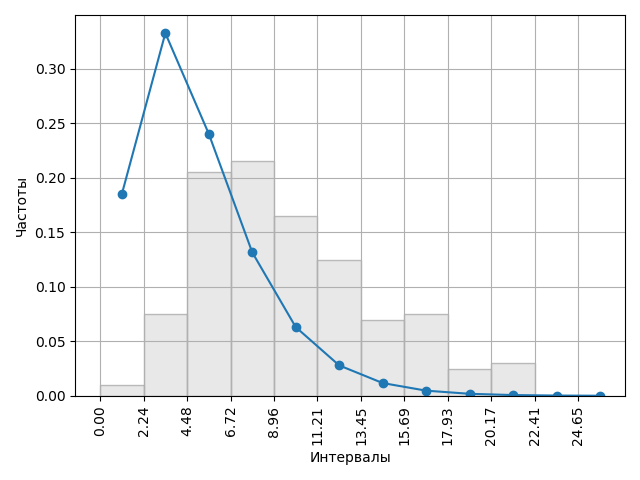
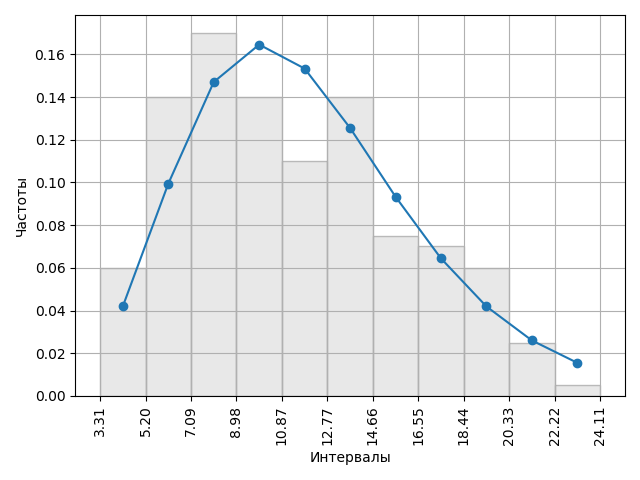
rgz - chi2 fixed

diff --git a/RGZ/algorithms.py b/RGZ/algorithms.py
@@ -17,7 +17,7 @@ def muller_method():
 
 # Распределение Хи-квадрат
 def chi2_distribution(k):
-    return sum(val**2 for sub in (muller_method() for _ in range(k)) for val in sub)
+    return sum(val**2 for sub in (muller_method() for _ in range(k // 2)) for val in sub)
 
 
 # Распределения Фишера
@@ -37,8 +37,8 @@ def make_sequence(n, distribution, *args):
 def get_intervals(sequence):
     k = int(5 * log10(len(sequence)))
     intervals_width = (max(sequence) - min(sequence)) / k
-    intervals = [x * intervals_width for x in range(0, k + 1)] 
-    return intervals
+    intervals = [x * intervals_width + min(sequence) for x in range(0, k + 1)] 
+    return intervals, intervals_width
 
 
 # Расчёт попаданий элементов последовательности в интервалы
@@ -53,14 +53,11 @@ def interval_hits(sequence, intervals):
 
 
 # Сформировать гистограмму теоретической и эмпирической функции плотности распределения
-def make_histogram(picturename, intervals, v, theor_distributuon, *args):
-    theor_intervals = []
-    theor_v = []
-    bar_width = intervals[-1] / (len(intervals) - 1)
-    for i in range(len(intervals)):
-        theor_intervals.append(i * bar_width + bar_width / 2)
-        theor_v.append(theor_distributuon((i + 1) * bar_width, *args) - theor_distributuon(i * bar_width, *args))
-    ff.draw_histogram(picturename, intervals, v, theor_intervals, theor_v, bar_width)
+def make_histogram(picturename, intervals, intervals_width, v, theor_distributuon, *args):
+    theor_intervals = [x + intervals_width / 2 for x in intervals]
+    theor_v = [theor_distributuon(x, *args) - theor_distributuon(y, *args) 
+               for x, y in zip(intervals[1:], intervals[:-1])]
+    ff.draw_histogram(picturename, intervals, v, theor_intervals, theor_v, intervals_width)
 
 
 # Сформировать график функции
@@ -70,7 +67,8 @@ def make_chart(picturename, title, theor_distributuon, *args):
 
 # Тест критерия Хи-квадрат
 def chi2_test(n, intervals, hits, alpha, theor_distributuon, *args):
-    intervals_p = [theor_distributuon(x, *args) - theor_distributuon(y, *args) for x, y in zip(intervals[1:], intervals[:-1])]
+    intervals_p = [theor_distributuon(x, *args) - theor_distributuon(y, *args) 
+                   for x, y in zip(intervals[1:], intervals[:-1])]
     S = n * sum((hit / n - p)**2 / p if p else 0 for hit, p in zip(hits, intervals_p))
     r = len(intervals) - 1
     integral_res = quad(lambda S: S**(r / 2 - 1) * exp(-S / 2), S, inf)[0]
@@ -80,7 +78,7 @@ def chi2_test(n, intervals, hits, alpha, theor_distributuon, *args):
 
 
 def I(mu, z):
-    return float(nsum(lambda i: (z / 2)**(mu + 2 * i) / (gamma(i + 1) * gamma(i + mu + 1)), [0, 5]))
+    return float(nsum(lambda i: (z / 2)**(mu + 2 * i) / (gamma(i + 1) * gamma(i + mu + 1)), [0, inf]))
 
 
 def a1(S):
@@ -88,7 +86,7 @@ def a1(S):
         z = (4 * i + 1)**2 / (16 * S)
         val1 = gamma(i + 0.5) * sqrt(4 * i + 1) / (gamma(0.5) * gamma(i + 1)) * exp(-z)
         val2 = I(-0.25, z) - I(0.25, z)
-        return val1 * (val2 - int(val2))
+        return val1 * val2
     ITER_MAX = 5
     result = float(nsum(sum_item, [0, ITER_MAX])) / sqrt(2 * S)
     return result 

diff --git a/RGZ/main.py b/RGZ/main.py
@@ -20,13 +20,13 @@ def main():
     #'''  
     empiric_distr = alg.chi2_distribution
     theor_distr = alg.chi2.cdf
-    k = 5
+    k = 12
     # Чтение данных тестов
     n, mu, nu, alpha, precision, histogram_run, chart_run = ff.read_tests_settings(TESTS_FILENAME)
     # Формирование последовательности
     sequence, modeling_time = alg.make_sequence(n, empiric_distr, k)
     # Формирование интервалов
-    intervals = alg.get_intervals(sequence)
+    intervals, intervals_width = alg.get_intervals(sequence)
     hits, v = alg.interval_hits(sequence, intervals)
     # Тест критерия Хи-квадрат
     chi2_r, chi2_S, chi2_PSS, chi2_passed = alg.chi2_test(n, intervals, hits, alpha, theor_distr, k)
@@ -38,7 +38,7 @@ def main():
     if chart_run:
         alg.make_chart(CHART, "Функция распределения Хи-квадрат", theor_distr, k)
     if histogram_run:
-        alg.make_histogram(HISTOGRAM, intervals, v, theor_distr, k)
+        alg.make_histogram(HISTOGRAM, intervals, intervals_width, v, theor_distr, k)
     '''
     empiric_distr = alg.fisher_distribution
     theor_distr = alg.f.cdf
@@ -47,7 +47,7 @@ def main():
     # Формирование последовательности
     sequence, modeling_time = alg.make_sequence(n, empiric_distr, mu, nu)
     # Формирование интервалов
-    intervals = alg.get_intervals(sequence)
+    intervals, intervals_width = alg.get_intervals(sequence)
     hits, v = alg.interval_hits(sequence, intervals)
     # Тест критерия Хи-квадрат
     chi2_r, chi2_S, chi2_PSS, chi2_passed = alg.chi2_test(n, intervals, hits, alpha, theor_distr, mu, nu)
@@ -59,7 +59,7 @@ def main():
     if chart_run:
         alg.make_chart(CHART, "Функция распределения Фишера", theor_distr, mu, nu)
     if histogram_run:
-        alg.make_histogram(HISTOGRAM, intervals, v, theor_distr, mu, nu)
+        alg.make_histogram(HISTOGRAM, intervals, intervals_width, v, theor_distr, mu, nu)
     '''     
 
 

diff --git a/RGZ/file_functions.py b/RGZ/file_functions.py
@@ -26,7 +26,7 @@ def draw_histogram(picturename, intervals, v, theor_intervals, theor_v, bar_widt
     plt.xlabel("Интервалы")
     plt.ylabel("Частоты")
     plt.xticks(intervals, rotation=90)
-    plt.plot(theor_intervals, theor_v, marker="o")
+    plt.plot(theor_intervals[:len(theor_intervals) - 1], theor_v, marker="o")
     plt.bar(intervals[:len(intervals) - 1], v, width=bar_width, alpha=0.5, 
             align="edge", edgecolor="grey", color="lightgrey")
     plt.grid(True)
